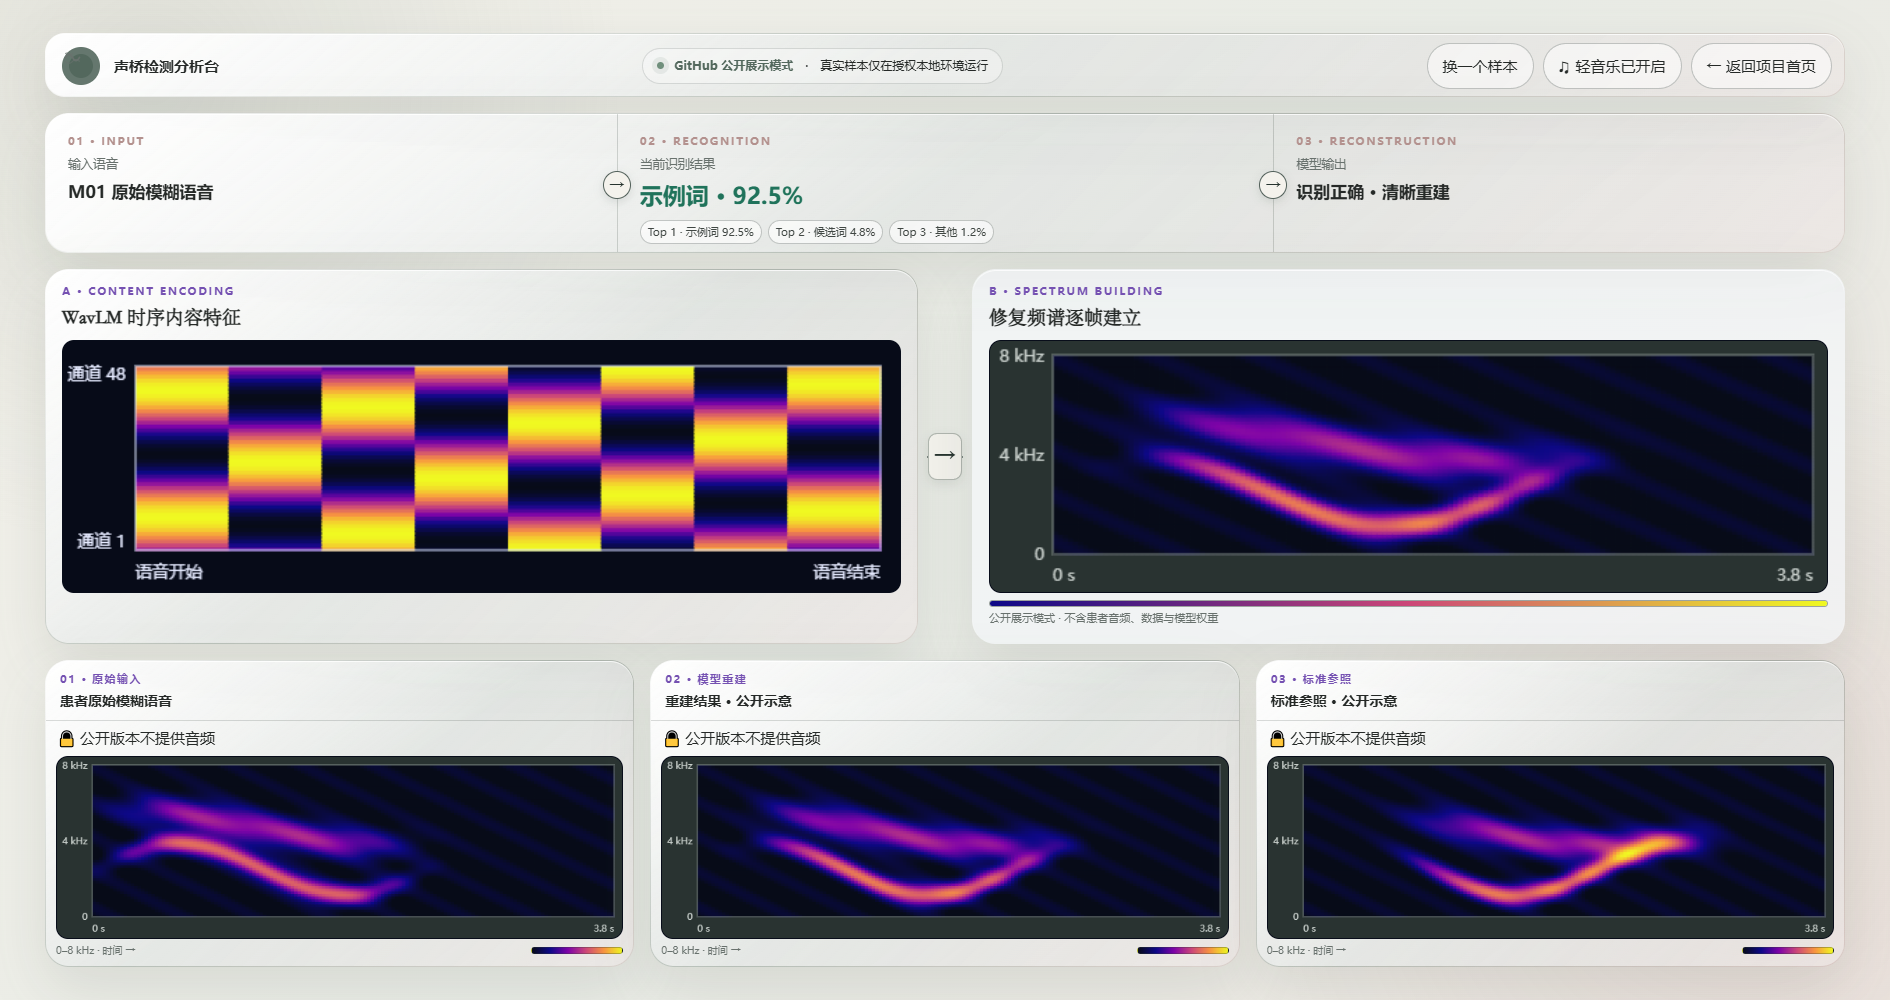
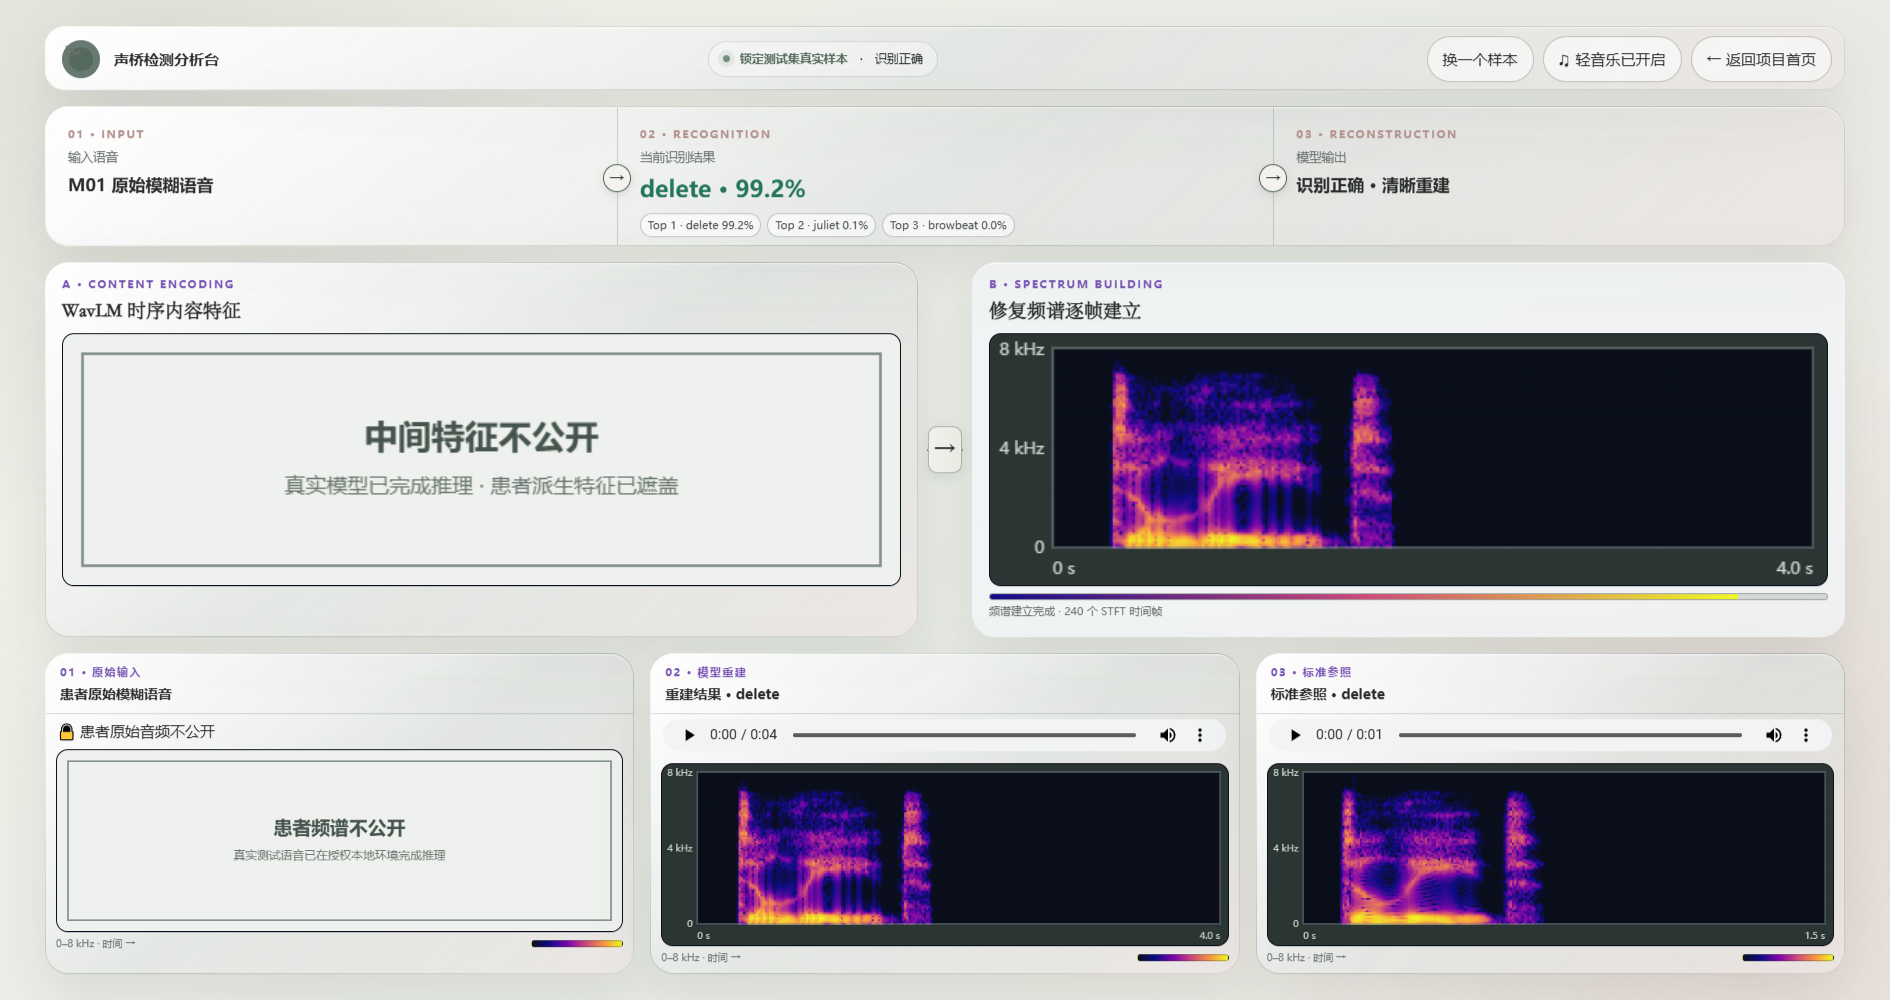
Replace simulated success with real test result

diff --git a/README.md b/README.md
@@ -66,9 +66,9 @@ UA-Speech 原始论文为 [Kim et al., *Dysarthric speech database for universal
 
 ### 成功案例
 
-![识别成功的公开安全展示案例](docs/images/dashboard-success.png)
+![锁定测试集真实识别成功案例](docs/images/dashboard-success.png)
 
-> 公开安全展示模式：识别成功状态、处理中间特征和频谱流程均可交互查看；频谱为合成示意，不包含患者音频、派生数据或模型权重。
+> 锁定测试集真实成功样本：目标词与模型预测均为 `delete`，置信度 99.18%。患者原始音频、原始频谱与中间特征依据语料许可要求遮盖；重建和标准参考在授权本地环境生成。
 
 ### 失败案例
 
